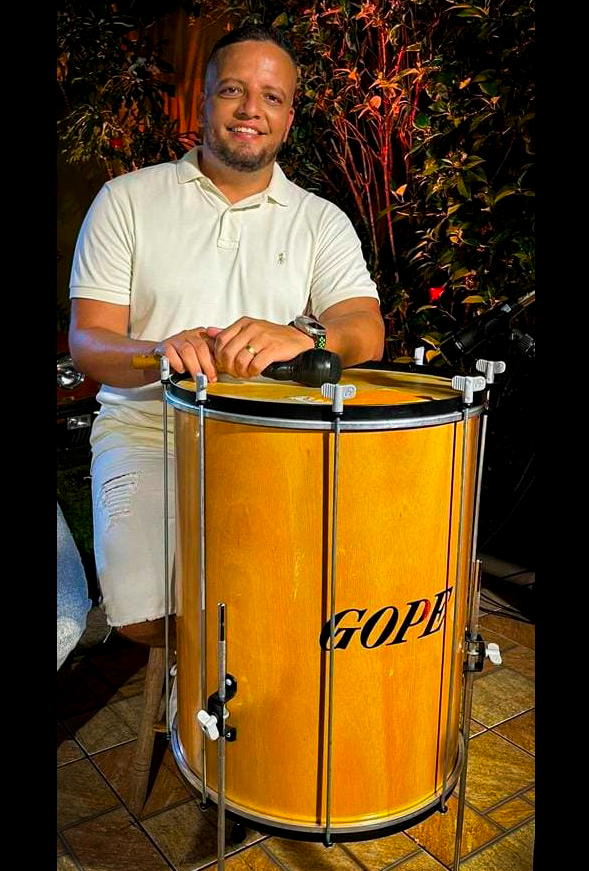
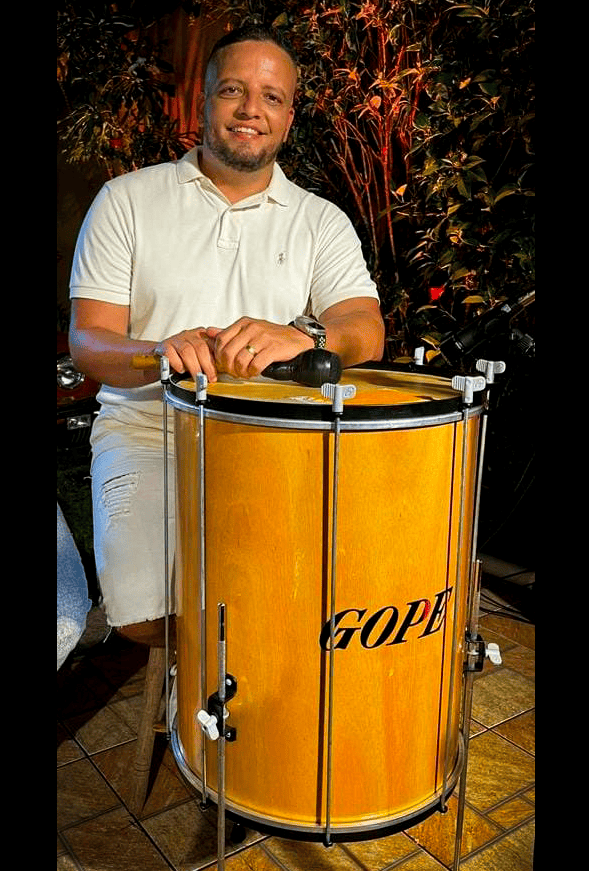
d

diff --git a/src/html/index.html b/src/html/index.html
@@ -338,7 +338,7 @@
             </div>
 
             <div class="size-60 rounded-md ml-10 "> <!-- Duda -->
-                <img class=" rounded-lg border-2 size-60    " src="../img/phots/Backup/Duda_Olhando_Para_CameraE.webp" alt=""> 
+                <img class=" rounded-lg border-2 size-60    " src="../img/phots/Backup/Duda_Olhando_Para_CameraE (1).png" alt=""> 
                 <h6 class=" font-bold text-white mt-3 text-center  "> Washington Luiz (DuDa)</h6>
                 <p  class=" text-[#878489]   text-center"> Percussão </p>
             </div>
